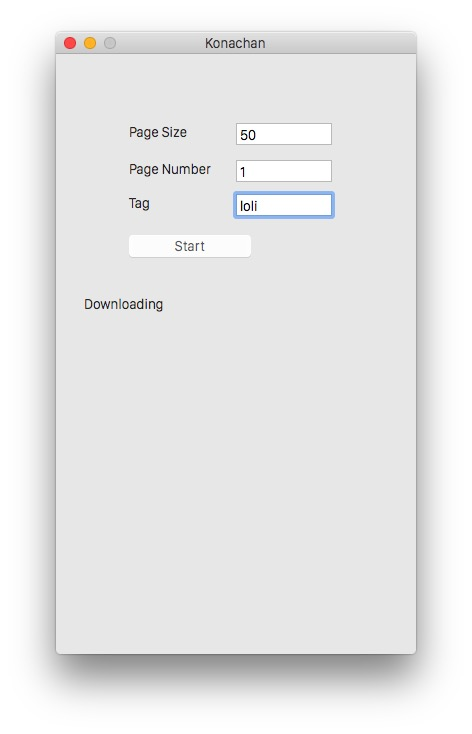
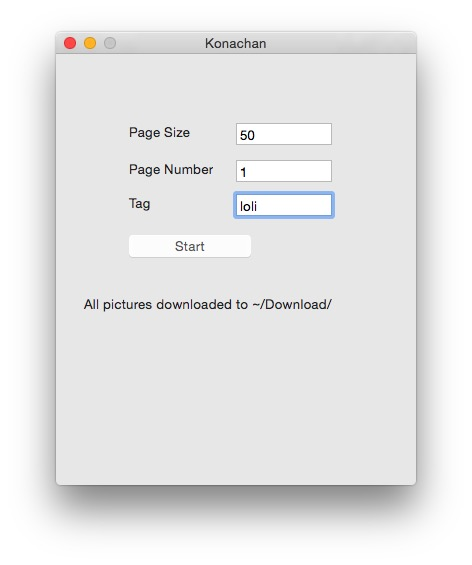
Update README

diff --git a/README.md b/README.md
@@ -5,6 +5,8 @@ Download images from Konachan.com
 ## Usage
 ![Konachan](/Konachan.jpg)
 
+    Download pictures are saved to ~/Downloads/
+
 Name | Explain
 --- | ---
 Page Size | the number of images you want to download
